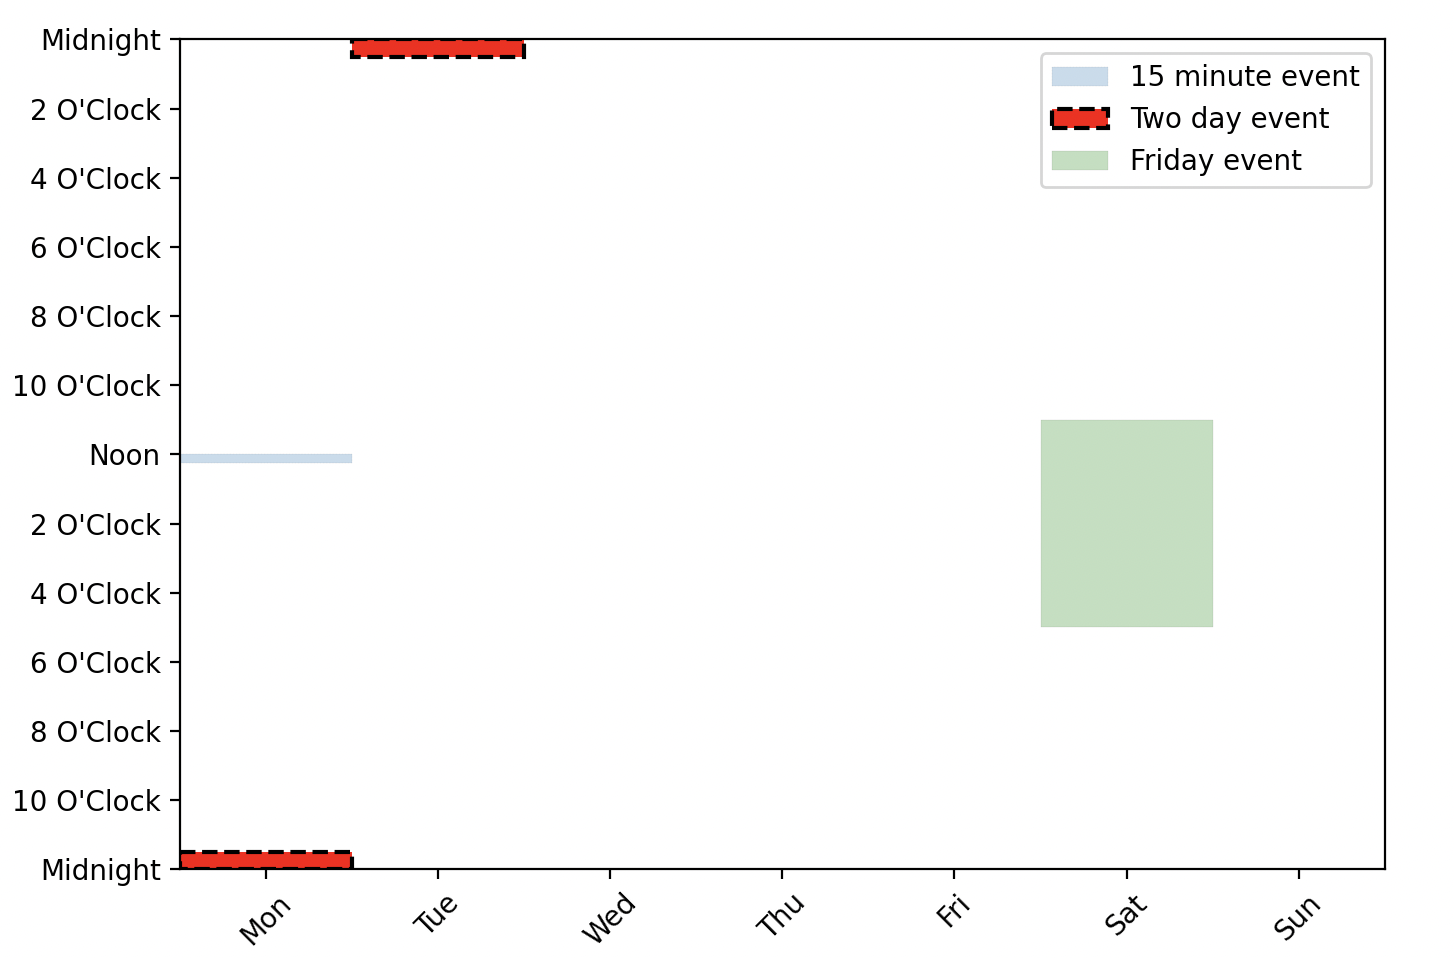
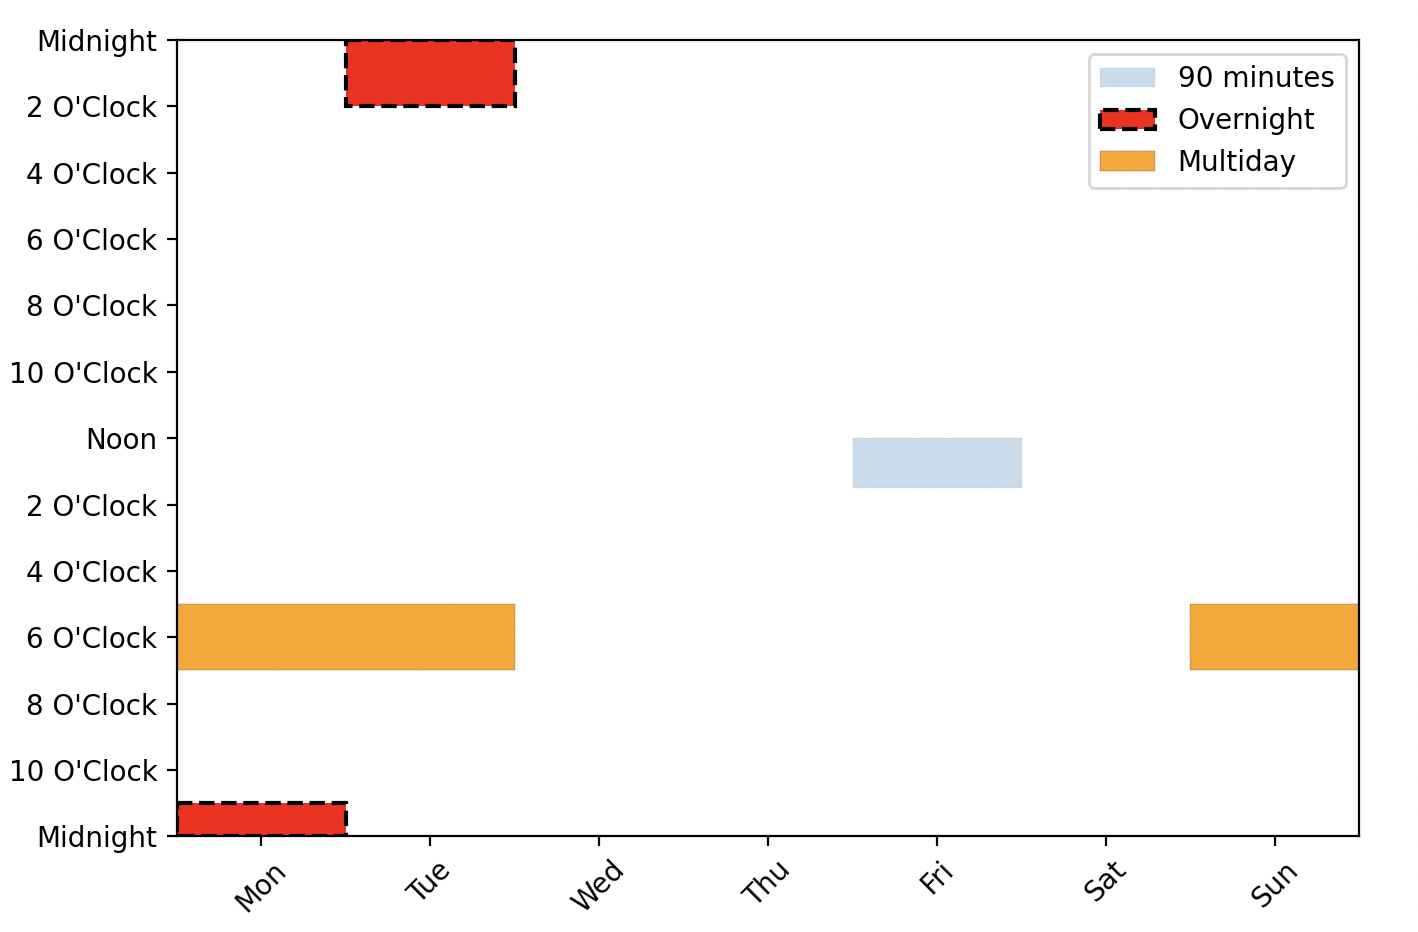
Multiday / Multiweek calendar event (#49)
* add days arg and implement

* remove split in overlap

* add constraint on day arg

* update example

diff --git a/latent_calendar/plot/elements.py b/latent_calendar/plot/elements.py
@@ -189,6 +189,7 @@ class CalendarEvent:
         start: The start hour of the event.
         end: The end hour of the event.
         duration: The duration of the event. Only used if end is None.
+        days: The number of days the event spans. Default is 1.
 
     Examples:
         Plot event from calendar data
@@ -212,8 +213,12 @@ class CalendarEvent:
     start: float
     end: Optional[float] = None
     duration: Optional[float] = None
+    days: int = 1
 
     def __post_init__(self) -> None:
+        if self.day not in range(DAYS_IN_WEEK):
+            raise ValueError("Day must be between 0 and 6")
+
         if self.end is None and self.duration is None:
             raise ValueError("Either end or duration must be provided")
 
@@ -223,6 +228,9 @@ class CalendarEvent:
         if self.end is None:
             self.end = self.start + (self.duration / 60)
             self.duration = None
+
+        if self.days not in range(1, DAYS_IN_WEEK + 1):
+            raise ValueError("Days must be between 1 and 7")
 
     @classmethod
     def from_calendar_data(
@@ -278,7 +286,22 @@ class CalendarEvent:
 
         return self.end % HOURS_IN_DAY < self.start
 
-    def _cap_event_at_midnight(self) -> "CalendarEvent":
+    @property
+    def multiweek_tour(self) -> bool:
+        return self.day + self.days > DAYS_IN_WEEK
+
+    def _cap_event_at_week_end(self) -> None:
+        self.days = DAYS_IN_WEEK - self.day
+
+    def _create_next_week_event(self) -> "CalendarEvent":
+        return CalendarEvent(
+            day=0,
+            start=self.start,
+            end=self.end,
+            days=self.days - DAYS_IN_WEEK + self.day,
+        )
+
+    def _cap_event_at_midnight(self) -> None:
         self.end = min(HOURS_IN_DAY, self.end)
 
     def _create_next_day_event(self) -> "CalendarEvent":
@@ -287,11 +310,11 @@ class CalendarEvent:
             day=(self.day + 1) % DAYS_IN_WEEK,
             start=0,
             end=self.end % HOURS_IN_DAY,
+            days=self.days,
         )
 
     def separate_events(self) -> List["CalendarEvent"]:
         """Return list of events that represent the one event across different days.
-
 
         Examples:
             A single event that goes from 23:00 to 01:00 will be split into two events.
@@ -303,12 +326,19 @@ class CalendarEvent:
             ```
 
         """
-        events = [replace(self)]
+        event = replace(self)
+        events = [event]
 
-        if self.multiday_tour:
-            events.append(self._create_next_day_event())
-            # Cap the initial rectangle at 24 hours
-            events[0]._cap_event_at_midnight()
+        if event.multiday_tour:
+            events.append(event._create_next_day_event())
+            event._cap_event_at_midnight()
+
+        for event in events:
+            if not event.multiweek_tour:
+                continue
+
+            events.append(event._create_next_week_event())
+            event._cap_event_at_week_end()
 
         return events
 
@@ -324,7 +354,7 @@ class CalendarEvent:
         x = self.day if monday_start else (self.day + 1) % DAYS_IN_WEEK
         rect_kwargs = {
             "xy": [x, self.start],
-            "width": 1,
+            "width": self.days,
             "height": height,
         }
 
@@ -365,8 +395,7 @@ class CalendarEvent:
             kwargs: Addtional kwargs for the Patch instances or to override.
 
         """
-        separated_events = self.separate_events()
-        for event in separated_events:
+        for event in self.separate_events():
             rectangle = event._create_matplotlib_rectangle(
                 monday_start=monday_start,
                 lw=lw,

diff --git a/tests/plot/test_elements.py b/tests/plot/test_elements.py
@@ -83,3 +83,35 @@ def test_separate_events(start: float, end: float, answer: List[CalendarEvent]):
 def test_vocab_contructor(vocab: str) -> None:
     event = CalendarEvent.from_vocab(vocab)
     assert isinstance(event, CalendarEvent)
+
+
+def test_week_overlap() -> None:
+    event = CalendarEvent(day=6, start=5, end=7, days=2)
+
+    assert event.multiweek_tour
+
+    events = event.separate_events()
+    assert events == [
+        CalendarEvent(day=6, start=5, end=7, days=1),
+        CalendarEvent(day=0, start=5, end=7, days=1),
+    ]
+
+
+def test_day_and_week_overlap() -> None:
+    event = CalendarEvent(day=6, start=23, duration=2 * 60, days=3)
+
+    assert event.multiweek_tour
+    assert event.multiday_tour
+
+    assert event.separate_events() == [
+        CalendarEvent(day=6, start=23, end=24, days=1),
+        CalendarEvent(day=0, start=0, end=1, days=3),
+        CalendarEvent(day=0, start=23, end=24, days=2),
+    ]
+
+
+@pytest.mark.parametrize("day", [-1, 7, 8])
+@pytest.mark.parametrize("days", [-1, 0, 8, 9])
+def test_calendar_event_init_errors(day, days) -> None:
+    with pytest.raises(ValueError):
+        CalendarEvent(day=day, start=0, end=1, days=days)

diff --git a/tests/test_plots.py b/tests/test_plots.py
@@ -115,3 +115,45 @@ def test_settings() -> plt.Figure:
 
     fig.set_size_inches(15, 15)
     return fig
+
+
+@pytest.mark.mpl_image_compare
+def test_multiday_event() -> None:
+    fig, ax = plt.subplots(figsize=(10, 10))
+    plot_blank_calendar(ax=ax)
+    event = CalendarEvent(day=0, start=12, duration=2 * 60, days=3)
+    event.plot(ax=ax, label="3 day block", linestyle="--", alpha=0.25, lw=1.5)
+
+    event = CalendarEvent(day=6, start=5, end=7, days=3)
+    event.plot(
+        ax=ax,
+        label="3 day block into next week",
+        linestyle="--",
+        facecolor="green",
+        alpha=0.25,
+        lw=1.5,
+    )
+
+    event = CalendarEvent(day=6, start=23, duration=2 * 60, days=3)
+    event.plot(
+        ax=ax,
+        label="3 day block into next day and week",
+        linestyle="--",
+        facecolor="orange",
+        alpha=0.25,
+        lw=1.5,
+    )
+
+    event = CalendarEvent(day=2, start=23, duration=2 * 60, days=2)
+    event.plot(
+        ax=ax,
+        label="2 day block into next day",
+        linestyle="--",
+        alpha=0.25,
+        facecolor="red",
+        lw=1.5,
+    )
+
+    ax.legend()
+
+    return fig

diff --git a/docs/examples/plotting/add-calendar-events.md b/docs/examples/plotting/add-calendar-events.md
@@ -3,7 +3,11 @@ comments: true
 ---
 Can use the `CalendarEvent` class to add arbitrary events to calendar. 
 
-The constructor takes a day of week, start time, and an end time or duration.
+The constructor takes a day of week, start time, an end time or duration, and 
+number of days. 
+
+The `plot` method takes a `plt.Axes` and allows for customization with additional
+keyword arguments
 
 ```python
 import matplotlib.pyplot as plt
@@ -14,19 +18,19 @@ from latent_calendar.plot.elements import CalendarEvent
 ax = plot_blank_calendar()
 
 event = CalendarEvent(
-    day=0, start=12, duration=15
+    day=4, start=12, duration=90, 
 )
-event.plot(ax=ax, label="15 minute event", linestyle="--", alpha=0.25)
+event.plot(ax=ax, label="90 minutes", linestyle="--", alpha=0.25)
 
 event = CalendarEvent(
-    day=0, start=23.5, end=24.5, 
+    day=0, start=23, duration=3 * 60,
 )
-event.plot(ax=ax, label="Two day event", facecolor="red", linestyle="dashed", lw=1.5)
+event.plot(ax=ax, label="Overnight", facecolor="red", linestyle="dashed", lw=1.5)
 
 event = CalendarEvent(
-    day=5, start=11, end=17, 
+    day=6, start=17, end=19, days=3, 
 )
-event.plot(ax=ax, label="Friday event", facecolor="green", alpha=0.25)
+event.plot(ax=ax, label="Multiday", facecolor="orange", linestyle="--")
 
 ax.legend()
 plt.show()
